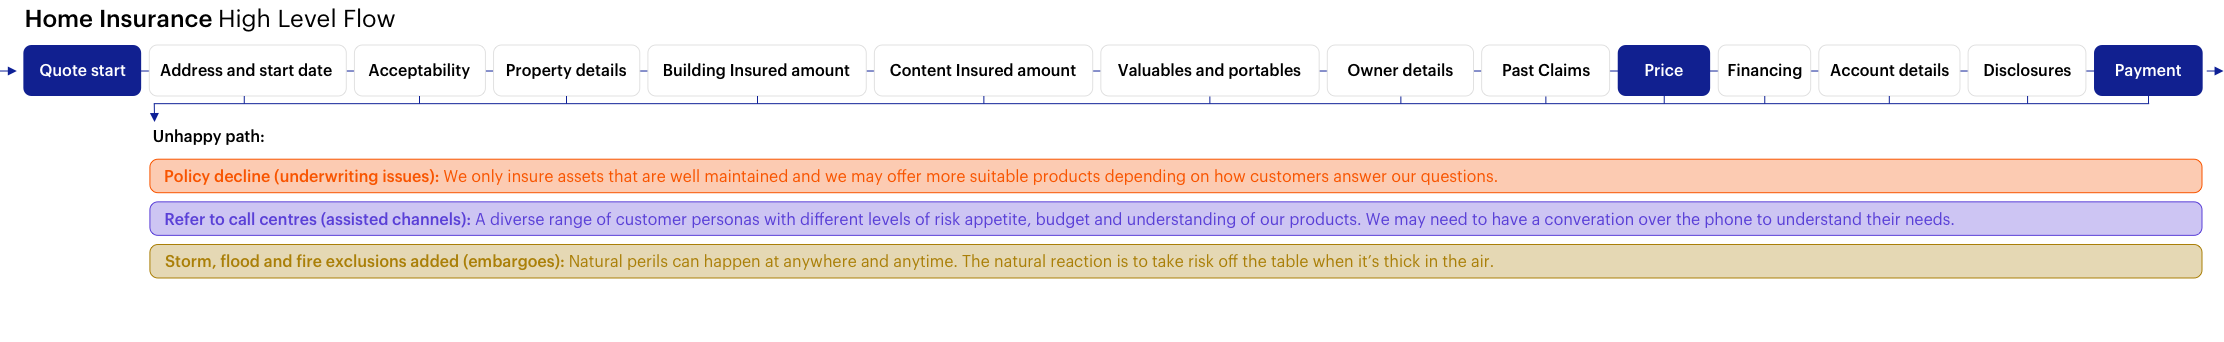
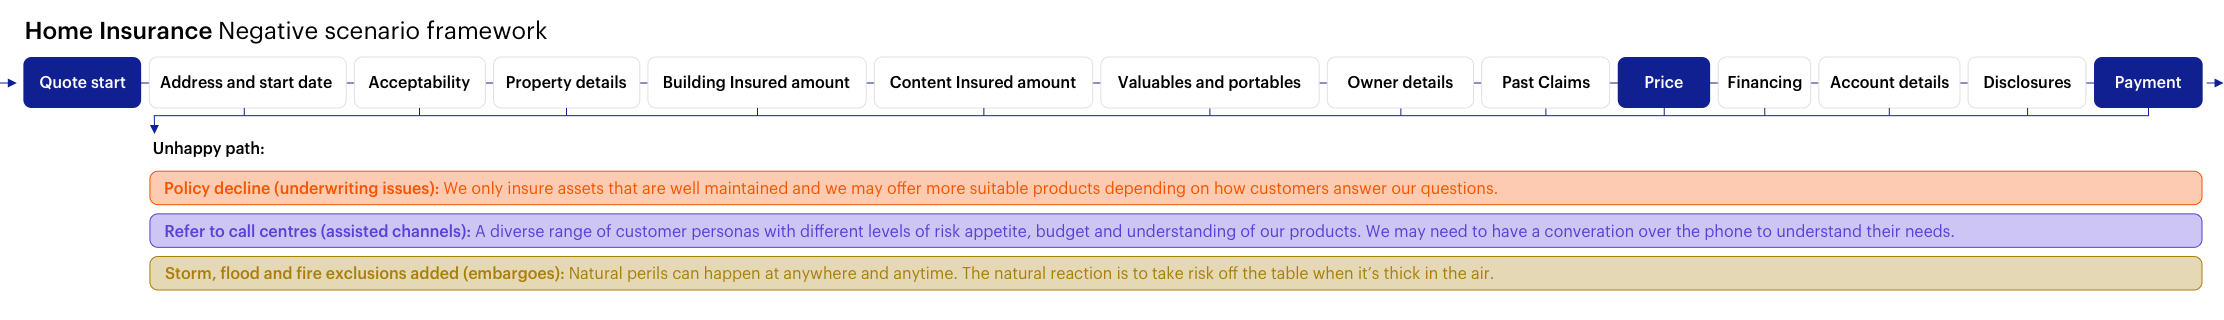
no message

diff --git a/a0111b67a03ca3a8592ef069f359cd303bd3b186/iag.html b/a0111b67a03ca3a8592ef069f359cd303bd3b186/iag.html
@@ -48,35 +48,68 @@
 			<p> 
 				By starting from scratch, the opportunity to establish design standards that are uniform, flexible and scalable across the entire ecosystem was evident. As a result, our success in designing, testing and deploying common patterns and interaction models has allowed us bring new products online exponentially faster through each iteration. 
 			</p>
-			
-		</div>
-		<div class="col-md-8 col-md-offset-2 hero">
-			<img src="img/iag/r-theme-1.png">
-		</div>
-		<div class="col-md-12 hero">
-			<h3> User flows </h3>
-			<img src="img/iag/user-flow.png">
-		</div>
-		<div class="col-md-12 hero">
-			<img src="img/iag/reusable.png">
-		</div>
-		<div class="col-md-8 col-md-offset-2 hero">
-			<img src="img/iag/oneMore.png">
-		</div>
-		<div class="col-md-12 hero">
-			<img src="img/iag/design-patterns.png">
-		</div>
-		<div class="col-md-8 col-md-offset-2 hero">
-			<img src="img/iag/addMultiple.png">
 		</div>
 		<div class="col-md-8 col-md-offset-2">
+			<h3 class="p-1"> Solving product agnostic problems at a system level </h3>
+			<h4 class="m-1"> Negative scenarios framework </h3>
 			<p> 
-				<b> Data collection (one or many items): </b> Underwriting and insurance products naturally require a copious amounts of personal data which is then used to price premiums and risk. We developed this pattern to be used for all our products company-wide. We also needed to meet our stringent accessibility requirements where we discovered challenges in breaking our onNext page validation convention and introducing onBlur input validation which resulted in a robust technical implementation that handled corner cases like keeping our error validation list synchronised when items were removed and how we focussed screenreaders when changes are made. 
+				Insurance products are infinitely complex because accurately pricing risk takes significant amounts of data and all customers have different needs and levels of risk appetite.
 			</p>
-			<h3> More to come... </h3>
+			<p> 
+				<b> We found: </b> Solving these issues in isolation meant our solution was narrow and superficial. We reframed our problem as a part of framework and solved each problem in unison.
+			</p>	
+			<h5 class="m-1"> Guiding principals we developed with business and technical teams: </h5>
+			<ul> 
+				<li> 1. Before data is sent to the backend, we clean and validate the data in the front-end
+				<li> 2. We will not be able to cater for all types and subsets of underwriting issues digitally, therefore there will always be some level of assisted human intervention </li>	
+				<li> 3. Where an underwriting issue doesn't meet our product standards, we <u> should not</u> refer customers to our call centres </li>
+				<li> 4. Before we decline policies, we should check to see if there are more suitable products that may meet customer needs </li>
+				<li> 5. If a policy variation exists, like a fire in the local area. We need to alert customers immediately </li>				
+			</ul>
+		</div>
+		<div class="col-md-12 hero">
+			<img src="img/iag/user-flow.png">
+		</div>
+		<div class="col-md-8 col-md-offset-2">
+			<h4 class="m-1"> Reusable design patterns </h3>
+			<p> 
+				The standards we introduce are fluid, repeatable and we tested to a minimum AA accessibility standard requirements. Users learn our interaction models and can expect the same experiences from all our brands and products. These patterns are used across our car, travel, landlord, residential strata insurance and more. Our designs are tried, tested and propogated across our whole ecosystem. 
+			</p>
+		</div>
+		<div class="col-md-12 hero">
+			<img src="img/iag/user-flow-2.png">
+		</div>
+		<div class="col-md-7 col-md-offset-2 portfolio-section center-text">
+			<h3 class="p-1"> Research themes </h3>
+			<img class="r-theme-img-2" src="img/iag/r-img-1.png">
+			<h4 class=""> Research theme 1: simplify language and explain insurance concepts </h4>
+			<p> 
+				A diverse mix of understanding of finance and insurance constructs is baked into our products. I worked with content-writers, product and the legal team to simplify insurance terms and explain concepts in plain language. Below are some terminologies that caused friction for customers.
+			</p>
+			<div class="col-md-10 col-md-offset-1">
+				<img class="m-1 center" src="img/iag/r-img-1.1.jpg">
+			</div>
 		</div>	
-	</section>
+		<div class="col-md-7 col-md-offset-2 portfolio-section center-text">
+			<img class="r-theme-img-2" src="img/iag/r-img-2.png">
+			<h4 class=""> Research theme 2: origins of data (privacy) </h4>
+			<p> 
+				Intimate details of the people’s home are surfaced in our products. Our customers worried about the origins of this data and evidentally concerned about cybersecurity more than ever. Our takeaway was that we should always tell customers where our data came from.
+			</p>
+			<div class="col-md-6 col-md-offset-3">
+				<img class="m-1 center" src="img/iag/r-img-2.1.jpg">
+			</div>
+		</div>	
+		<div class="col-md-7 col-md-offset-2 portfolio-section center-text">
+			<img class="r-theme-img-2" src="img/iag/r-img-3.jpg">
+			<h4 class=""> Research theme 3: transparency and trust </h4>
+			<p> 
+				Customers are often sent to product disclosure statements (PDS) PDF to sift through difficult to understand legal documents. This nurtures distrust and a distasteful customer experience. Wherever we could, we tried to articulate complexities directly on the page in lieu of linking out to PDF’s.
+			</p>
+			<img class="m-1 center" src="img/iag/r-img-3.1.jpg">
+		</div>	
 
+	</section>
 	<div class="footer"> </div>
 </div>
 <script src="https://ajax.googleapis.com/ajax/libs/jquery/3.1.0/jquery.min.js"></script>

diff --git a/a0111b67a03ca3a8592ef069f359cd303bd3b186/appointment-booking-v2.html b/a0111b67a03ca3a8592ef069f359cd303bd3b186/appointment-booking-v2.html
@@ -56,7 +56,7 @@
 				We listened to users that had recently taken out mortgages as they talked about the rollercoasters of emotions in the home buying process, being able to speak with a trusted advisor and build a relationship was core to a successful transaction. 
 			</p>
 			<img class="" src="img/booking/testingNotes.png">
-			<h3 class="portfolio-section"> Book appointment user flow </h3>
+			<h3 class=""> Book appointment user flow </h3>
 			<p>
 				This 5 minute digital interaction replaces a series of manual back-office process that often cumulated in a 24 hour turn-around. 
 			</p>
@@ -120,7 +120,13 @@
 				Released in late 2018. This is the front door and the first step for a significant amount of customers that need to connect to the bank for new and existing mortgages.
 			</p>
 			<img src="img/booking/results.png">
-				<!-- <p class="subtitle text-uppercase"> United system to originate and maintain all of IAG's products </p> -->
+		</div>
+		<div class="col-md-8 col-md-offset-2 portfolio-section hero">
+			<h3 class=""> End to end product design </h4>
+			<p> 
+				I produced all visual, user interface and interaction design following CommBank's Digital Design Language and tested all final development production code to match pixel perfect design specifications. Below are screenshots taken from the CommBank's live production code.
+			</p>
+			<img src="img/booking/hero-2.jpg">
 		</div>
 		<div class="col-md-12 hero">
 			<h3 class="portfolio-section center-text"> Early concepts and sketches </h3>

diff --git a/a0111b67a03ca3a8592ef069f359cd303bd3b186/css/proto.css b/a0111b67a03ca3a8592ef069f359cd303bd3b186/css/proto.css
@@ -15,7 +15,8 @@ a p { color: #333333; }
 p { font-size: 18px; line-height: 32px; margin-top: 12px; }
 h2 { font-size: 48px; font-weight: bold; padding-bottom: 16px; }
 h3 { font-size: 28px; line-height: 36px; padding-top: 24px; }
-h4 { font-size: 24px; }
+h4 { font-size: 20px; }
+h5 { font-size: 18px; }
 section { margin-top: 40px; }
 img { width: 100%; 
   image-rendering: auto;
